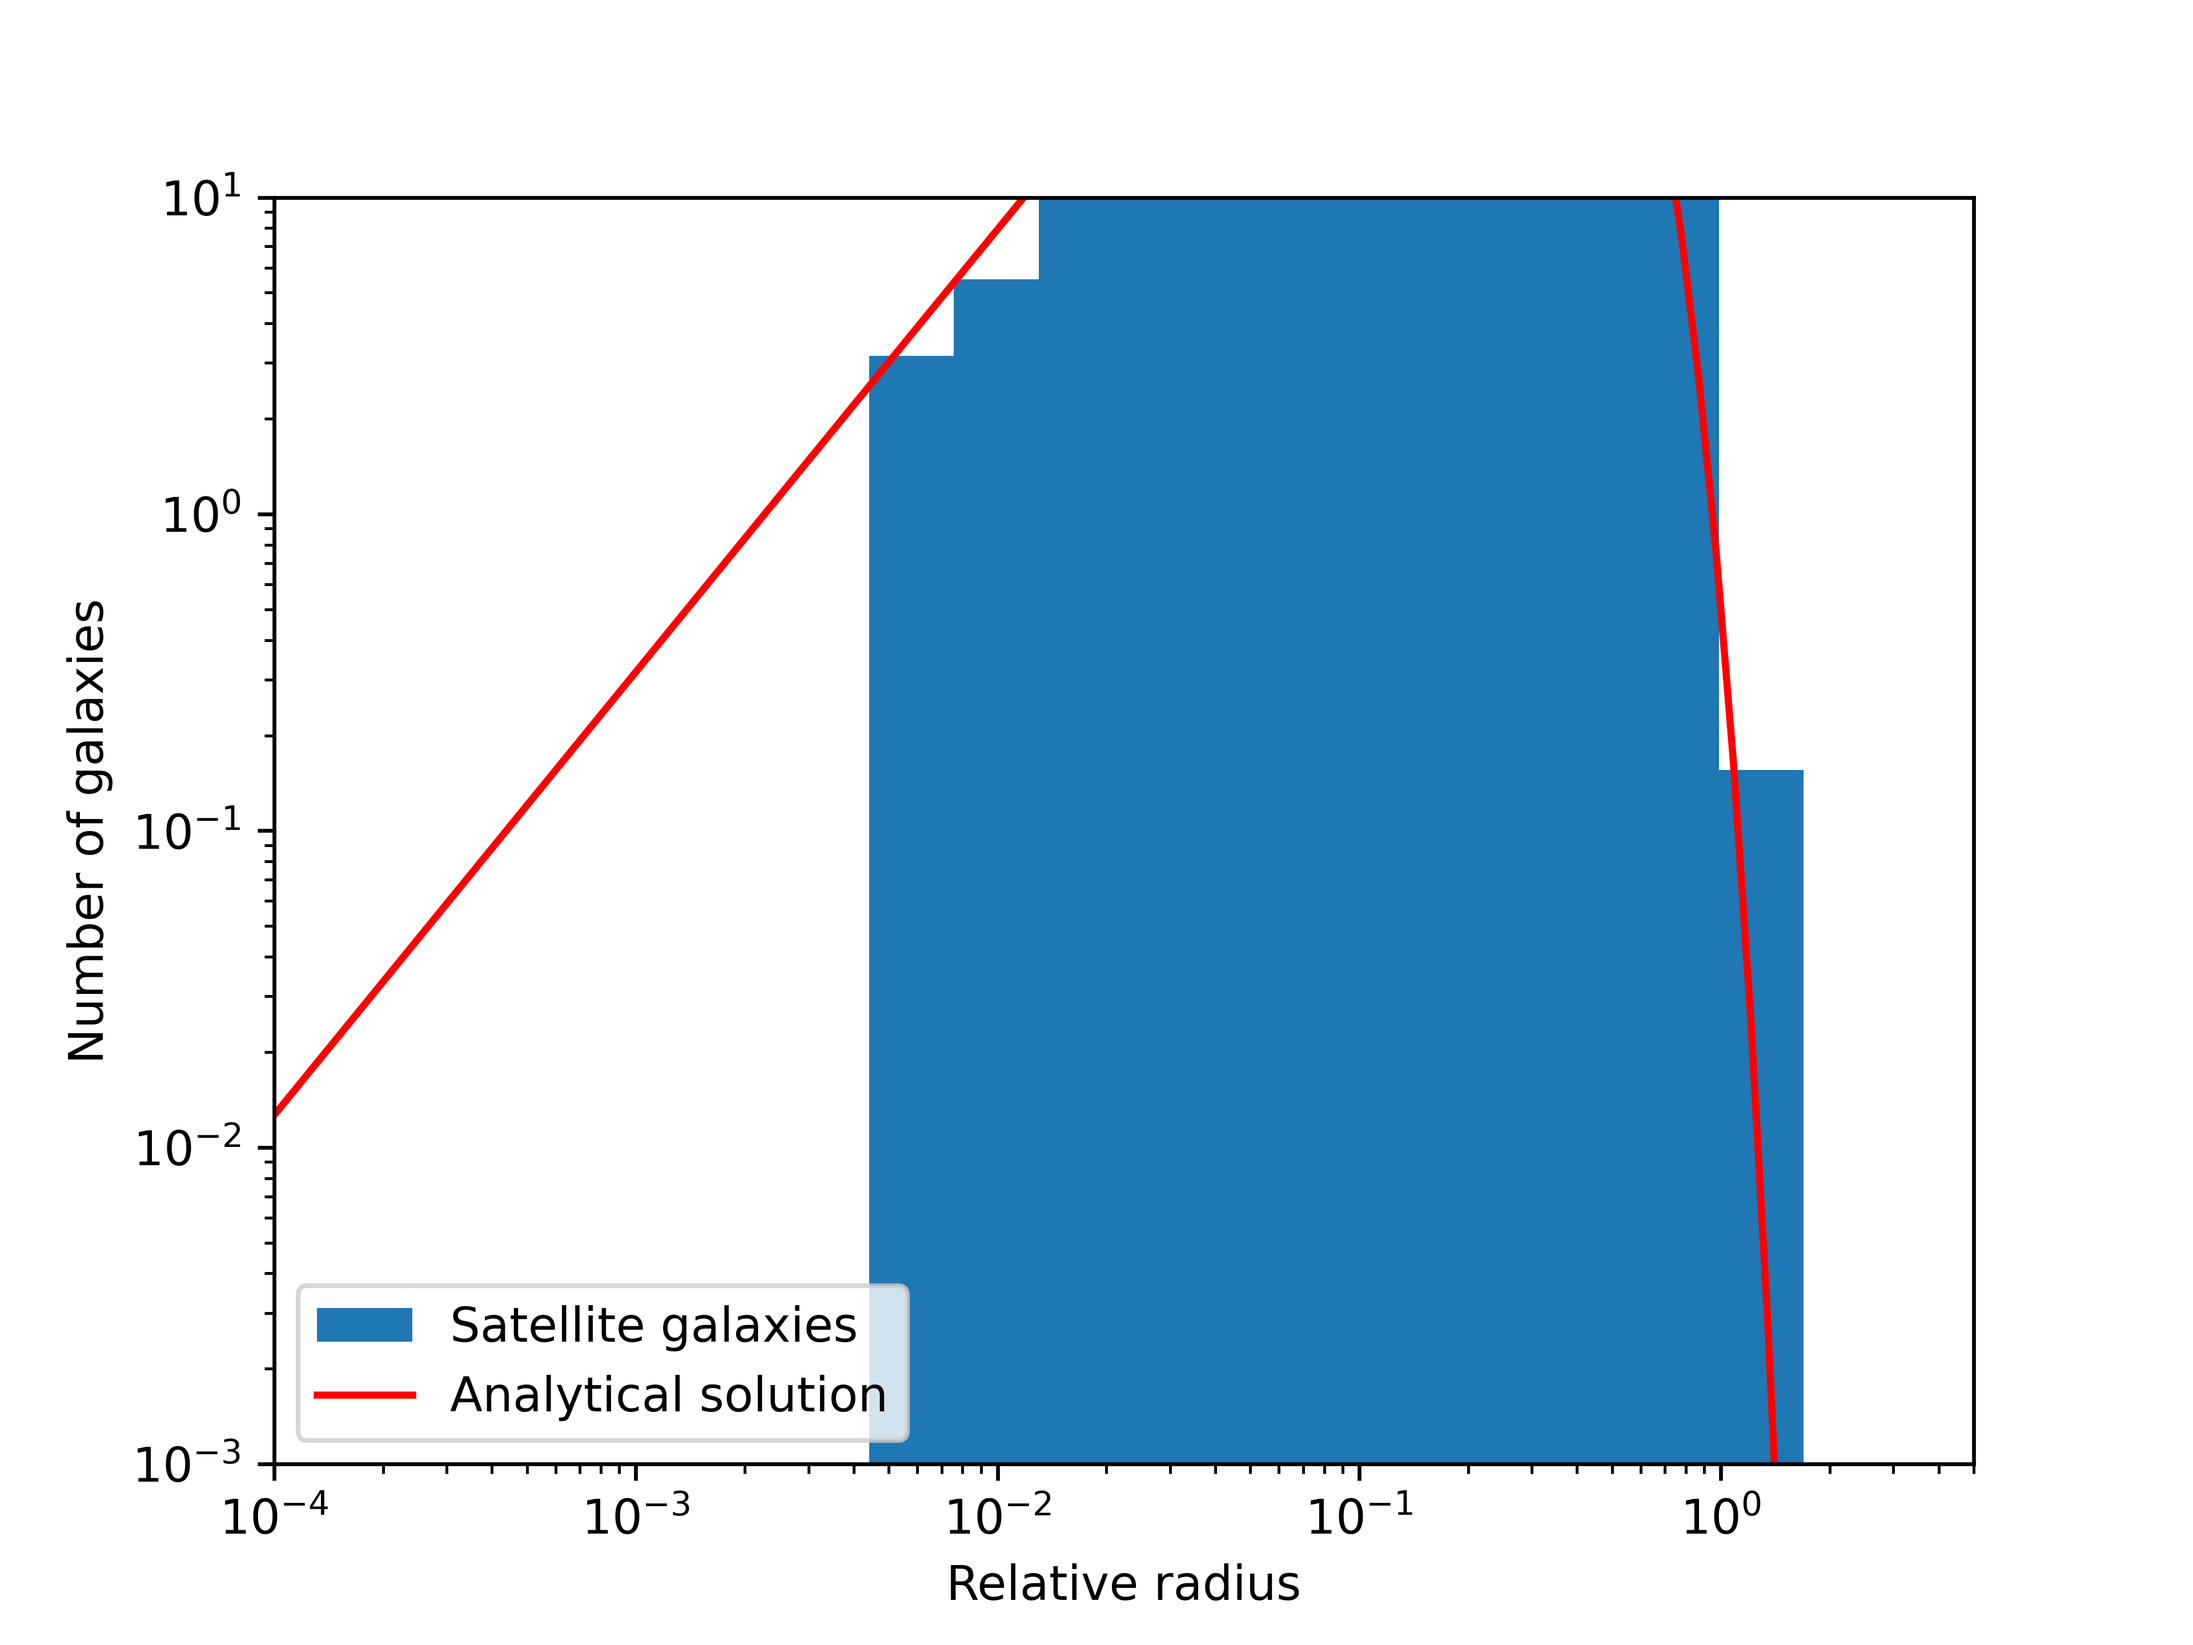
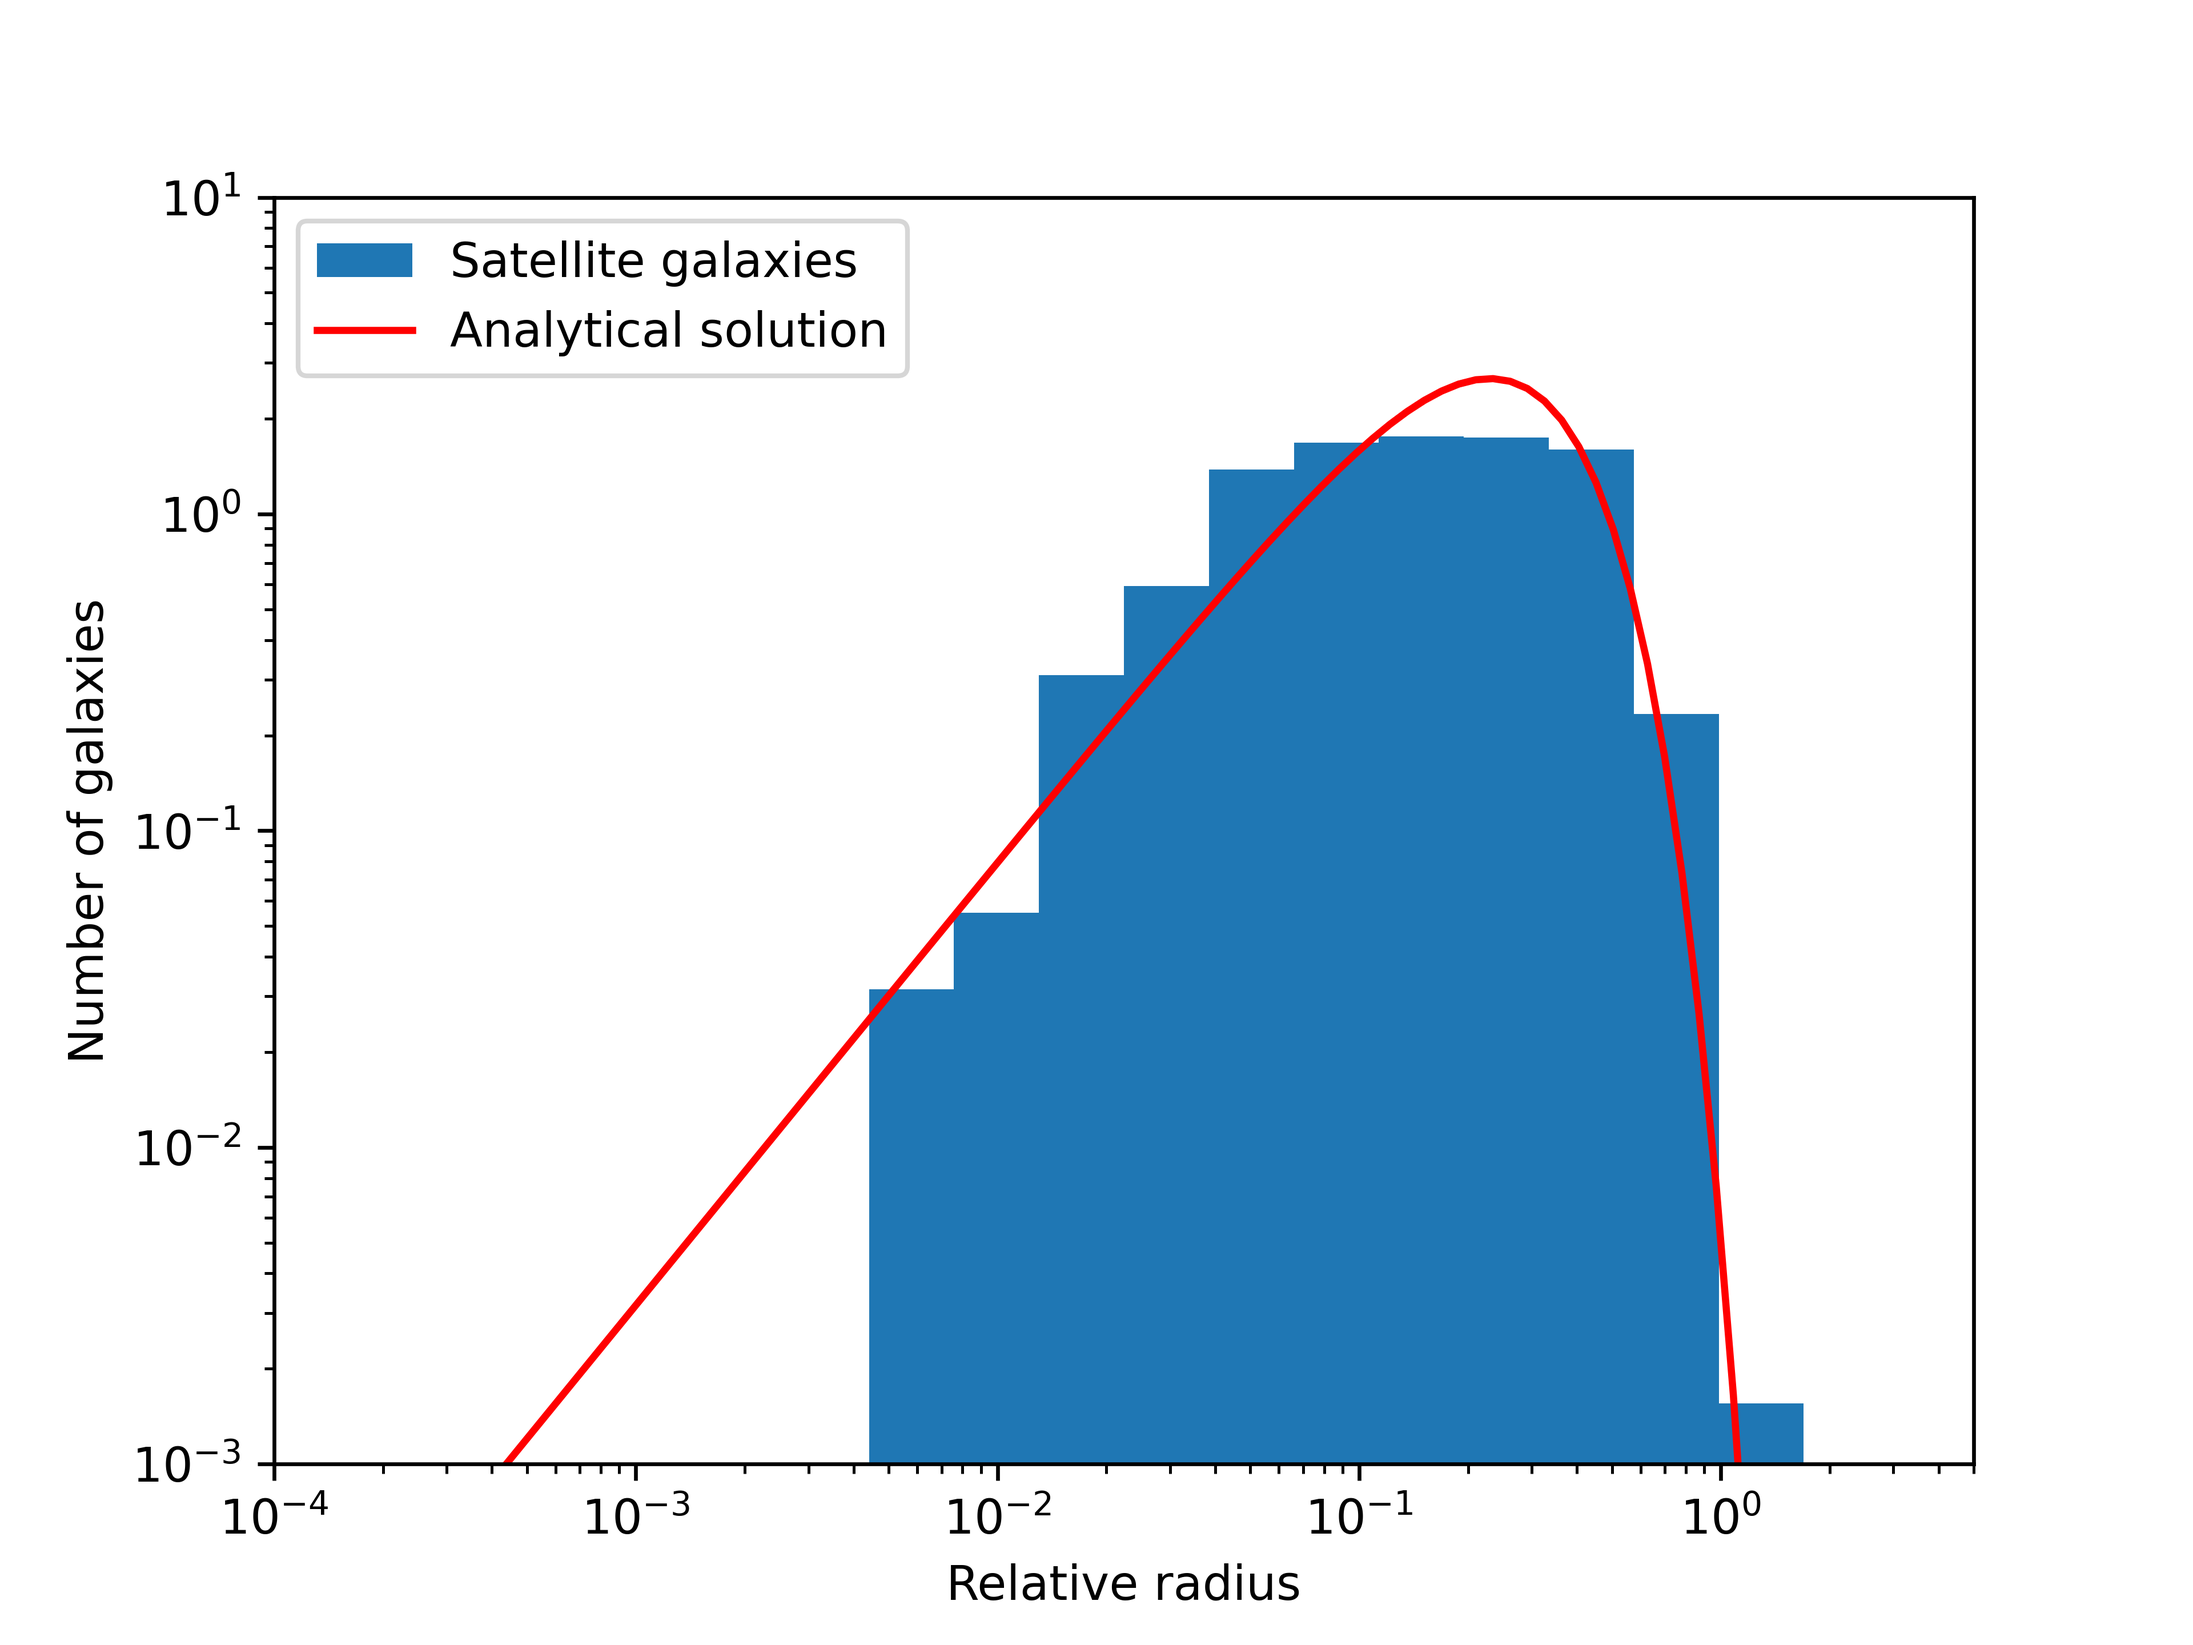
Final version of code, not of text

diff --git a/Q1.py b/Q1.py
@@ -2,19 +2,17 @@
 import numpy as np
 import matplotlib.pyplot as plt
 
+# Define constants
 Nsat=100
 a=2.4
 b=0.25
 c=1.6
-
 xmin, xmax = 10**-4, 5
-
-# Test function for differentiation and integration
-def test_func(x):
-    return np.sin(x)+3
 
 class n_class:
     def __init__(self,A,Nsat,a,b,c):
+        """Class for functions n and p, such that the variable information does not
+        have to be passed to them with every call."""
         self.A = A
         self.Nsat = Nsat
         self.a = a
@@ -23,14 +21,40 @@ class n_class:
         pass
 
     def n(self, x):
+        """Returns the value of the function n at x."""
         return self.A*self.Nsat*(x/self.b)**(self.a-3)*np.exp(-(x/self.b)**self.c)
 
     def p(self, x):
+        """Returns the value of the probability p=N/Nsat at x."""
         return 4*np.pi*x**2*self.A*(x/self.b)**(self.a-3)*np.exp(-(x/self.b)**self.c)
-    
+
+class RNG_class:
+    def __init__(self, seed):
+        """Class for random number generator such that the seed is passed once and the current state is remembered."""
+        if (seed < 0):
+            print("The seed for the RNG is invalid.")
+        self.state1 = np.uint64(seed)
+        self.m = np.uint64(4930622455819)
+        self.a = np.uint64(3741260)
+        self.fraction = 1/(self.m-1) # period is m-1
+        pass
+
+    def random(self):
+        """Returns a uniformly random float between (0,1)."""
+        # 64-bit XOR-shift method
+        self.state1 = self.state1^(self.state1>>np.uint64(21))
+        self.state1 = self.state1^(self.state1<<np.uint64(35))
+        self.state1 = self.state1^(self.state1>>np.uint64(4))
+        # Multiple linear congruential generator
+        random = (self.a*self.state1) % self.m
+        # Convert to interval (0,1)
+        random = random * self.fraction
+        return random
+
 # 1a
 
 def integrand(x,a=a,b=b,c=c):
+    """Returns the integrand that is used to compute A."""
     return x**2*((x/b)**(a-3))*np.exp(-(x/b)**c)
 
 def extended_midpoint_Romberg(f, a, b, m=8):
@@ -66,50 +90,32 @@ def extended_midpoint_Romberg(f, a, b, m=8):
             r[j] = (Np*r[j+1]-r[j])*factor
     return r[0], np.absolute(r[0]-r[1])
 
-# Testing integration
-print(f"The test integral and error are {extended_midpoint_Romberg(test_func, 0, 20)}")
-
-# TODO check whether A is correct
+# Compute and print the found value for A
 A = 1/(4*np.pi*extended_midpoint_Romberg(integrand, 0, xmax)[0])
 print(f"A is {A}")
 
 # 1b
 
+# Make object of class for n using the constants including the previously found A
 n1 = n_class(A, Nsat, a, b, c)
-
-class RNG_class:
-    def __init__(self, seed):
-        if (seed < 0):
-            print("The seed for the RNG is invalid.")
-        self.state1 = np.uint64(seed)
-        self.m = np.uint64(4930622455819)
-        self.a = np.uint64(3741260)
-        self.fraction = 1/(self.m-1) # period is m-1
-        pass
-
-    def random(self):
-        """Returns a uniformly random float between (0,1)."""
-        # 64-bit XOR-shift method
-        self.state1 = self.state1^(self.state1>>np.uint64(21))
-        self.state1 = self.state1^(self.state1<<np.uint64(35))
-        self.state1 = self.state1^(self.state1>>np.uint64(4))
-        # Multiple linear congruential generator
-        random = (self.a*self.state1) % self.m
-        # Convert to interval (0,1)
-        random = random * self.fraction
-        return random
     
 # Seed random number generator
 RNG1 = RNG_class(seed = 123456789)
 
 # Testing random number generator
-randoms = np.zeros(100000)
+randoms = np.zeros(10000)
 for i in range(len(randoms)):
     randoms[i] = RNG1.random()
 plt.hist(randoms)
-plt.savefig('hist.pdf')
+plt.title("Test: 10000 random numbers within (0,1)")
+plt.xlabel("Random numbers")
+plt.ylabel("Number")
+plt.savefig('hist.png', dpi=600)
 
 def rejection_sampling(p, xmin, xmax, num):
+    """Takes a probability distribution p, interval bound by xmin and xmax. Samples num random
+    draws from p within range (xmin, xmax) using rejection sampling.
+    Returns array with num samples."""
     samples = np.zeros(num)
     i = 0
     while (i < num):
@@ -126,11 +132,11 @@ samples = rejection_sampling(n1.p, xmin, xmax, 10000)
 # 21 edges of 20 bins in log-space
 edges = 10**np.linspace(np.log10(xmin), np.log10(xmax), 21)
 hist = np.histogram(samples, bins=edges)[0]
-# Correcting for bin width and normalization offset 10000/Nsat=100
-hist_scaled = hist / (edges[1:]-edges[:-1]) * 0.01
-# Getting analytical solution of N(x) for values between xmin and xmax in log space
+# Correcting for bin width and normalization offset 10000
+hist_scaled = hist / (edges[1:]-edges[:-1]) * 0.0001
+# Getting analytical solution of N(x)/Nsat for values between xmin and xmax in log space
 relative_radius = 10**np.linspace(np.log10(xmin), np.log10(xmax), 100)
-analytical_function = n1.p(relative_radius) * Nsat # N(x)
+analytical_function = n1.p(relative_radius) # N(x)/Nsat
 
 # Plotting histogram and analytical solution
 fig1b, ax = plt.subplots()
@@ -138,7 +144,7 @@ ax.stairs(hist_scaled, edges=edges, fill=True, label='Satellite galaxies')
 plt.plot(relative_radius, analytical_function, 'r-', label='Analytical solution')
 ax.set(xlim=(xmin, xmax), ylim=(10**(-3), 10), yscale='log', xscale='log',
        xlabel='Relative radius', ylabel='Number of galaxies')
-ax.legend()
+ax.legend(loc='upper left')
 plt.savefig('my_solution_1b.png', dpi=600)
 
 # 1c
@@ -192,11 +198,18 @@ def quicksort(array):
     return array
 
 def random_samples_from_array(array, num):
+    """Draw num random samples from array according to the following rules:
+    1. Selects every item with equal probability.
+    2. Does not draw any item twice.
+    3. Does not reject any draw.
+    Returns an array with the num drawn samples."""
     samples = np.zeros(num)
     for i in range(num):
         # Draw random integer (index) in [0, N-1] with N the current size of array
         idx = np.int64(np.floor(array.shape[0]*RNG1.random()))
+        # Add this item to the samples
         samples[i] = array[idx]
+        # Remove this item from the original list so as to not draw it again
         array = np.delete(array, idx)
     return samples
 
@@ -216,10 +229,12 @@ plt.savefig('my_solution_1c.png', dpi=600)
 
 def analytical_derivative_n(x,A,Nsat,a,b,c):
     """Returns the value of the analytical derivative of n at the point x."""
-    return -A*Nsat/b**2*(a-3)*c*(x/b)**(a+c-5)*np.exp(-(x/b)**c)
-# TODO is this correct? ik denk het niet...
+    fraction = 1/b
+    return A*Nsat*fraction*((a-3)*(x*fraction)**(a-4)-c*(x*fraction)**(a+c-4))*np.exp(-(x*fraction)**c)
 
 def Ridders_differentiation(f, x, m=5, h=0.1, d=2, target_error=1e-13):
+    """Applies Ridders differentiation on the function f at the point x. 
+    Returns the numerical derivative of f at x together with an estimate of the error."""
     # Calculate first approximations to f'(x) using central differences
     approx = np.zeros(m)
     d_inverse = 1/d
@@ -227,7 +242,6 @@ def Ridders_differentiation(f, x, m=5, h=0.1, d=2, target_error=1e-13):
     for i in range(m):
         approx[i] = (f(x+h)-f(x-h)) * 0.5 / h
         h *= d_inverse
-    print(approx)
     # Combine pairs of approximations
     for j in range(1, m):
         power = np.power(d, 2*j)
@@ -237,21 +251,13 @@ def Ridders_differentiation(f, x, m=5, h=0.1, d=2, target_error=1e-13):
         # Terminate when improvement over previous best approximation is smaller than target error
         error_new = np.absolute(approx[0]-approx[i+1])
         if (error_new < target_error):
-            print('hi')
             return approx[0], error_new
         # Terminate early if the error grows, return best approximation from before
         if (error_old < error_new):
-            print('ho')
             return approx[i+1], error_old
         error_old = error_new
-        print(j)
     return approx[0], error_new
 
+# Compute the analytical and numerical derivatives
 print(f"The analytical derivative of n at x=1 is {analytical_derivative_n(1,A,Nsat,a,b,c)}")
-print(f"The numerical derivative of n at x=1 is {Ridders_differentiation(n1.n,1,m=10,h=0.1)[0]}")
-# TODO check 12 significant digits
-
-# TODO look at increasing m (niet echt nodig...)
-
-
-print(Ridders_differentiation(test_func, 1))
+print(f"The numerical derivative of n at x=1 is {Ridders_differentiation(n1.n,1,m=15,h=0.1)[0]}")

diff --git a/Q2.py b/Q2.py
@@ -6,27 +6,31 @@ k=1.38e-16 # erg/K
 aB = 2e-13 # cm^3 / s
 A = 5e-10 # erg
 xi = 1e-15# /s
-
 Z = 0.015
 psi = 0.929
 Tc = 1e4 # K
 
 # here no need for nH nor ne as they cancel out
 def equilibrium1(T, Z=Z, Tc=Tc, psi=psi):
+    """Returns value of the function of which the root must be found for 2a."""
     return psi*Tc*k - (0.684 - 0.0416 * np.log(T/(1e4 * Z*Z)))*T*k
 
 class Equilibrium2:
     def __init__(self, nH):
+        """Class for equilibrium2 such that nH does not have to be passed with every function call."""
         self.nH = nH
         pass
 
     def equilibrium2(self, T):
+        """Returns value of the function of which the root must be found for 2b."""
         return (psi*Tc - (0.684 - 0.0416 * np.log(T/(1e4 * Z*Z)))*T - .54 * ( T/1e4 )**.37 * T)*k*self.nH*aB + A*xi + 8.9e-26 * (T/1e4)
 
-# 2a
-
 def bisection_root_step(f, a, b):
+    """Takes a function f and bracket (a,b).
+    Returns the new bracket found by bisection."""
+    # Find middle of a and b
     c = (a+b)*0.5
+    # Check whether a or b forms bracket with c
     if (f(a)*f(c) < 0):
         b = c
     else:
@@ -62,11 +66,15 @@ def false_position_method(f, a, b, max_iterations=50, target_abs=0.1, target_rel
     return a, b, steps+1
 
 def root_from_interval(f, a, b):
+    """Return the approximate root value a or b, choosing the one for which f(x) is closest to zero."""
     if (np.absolute(f(a)) < np.absolute(f(b))):
         return a
     else:
         return b
+    
+# 2a
 
+# Compute and time the equilibrium temperature (root) from equilibrium1
 start = time.time()
 a, b, iterations = false_position_method(equilibrium1, 1, 1e7, target_abs=0.1, safeguards=True)
 print(f"The equilibrium temperature (root) is {root_from_interval(equilibrium1, a, b)} K with an error estimate of {b-a:.3} K.")
@@ -76,6 +84,7 @@ print(f"The number of iterations used is {iterations}.")
 
 # 2b
 
+# Compute and time the equilibrium temperature (root) from equilibrium2 for different nH
 print(f"The equilibrium temperature (root) and estimated error are given.")
 print("n_e [cm$^{-3}$]     T_equilibrium [K]     estimated absolute error [K]     time [ms]     iterations")
 for n_e in [1e-4, 1, 1e4]:
@@ -84,6 +93,3 @@ for n_e in [1e-4, 1, 1e4]:
     a, b, iterations = false_position_method(func_class.equilibrium2, 1, 1e15, target_rel=1e-10, safeguards=True)
     end = time.time()
     print(f"{n_e}     {root_from_interval(func_class.equilibrium2, a, b)}     {b-a:.3}     {(end-start)*10**3:.3}     {iterations}")
-
-
-# TODO try Newton-Raphson method? maybe in combination with false position method
